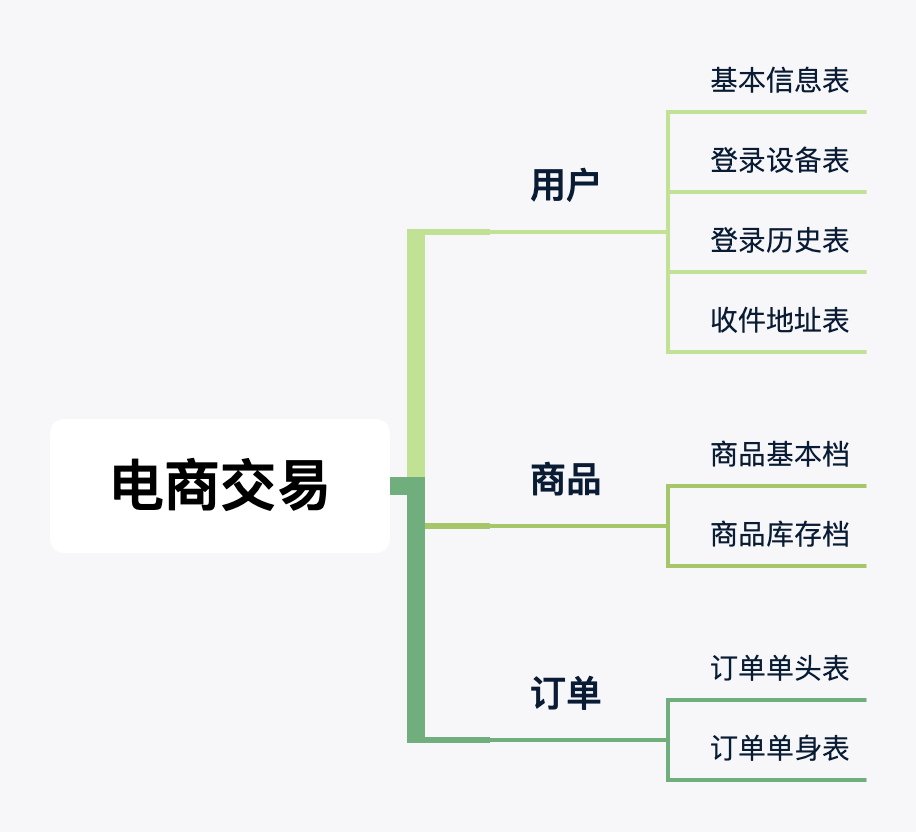
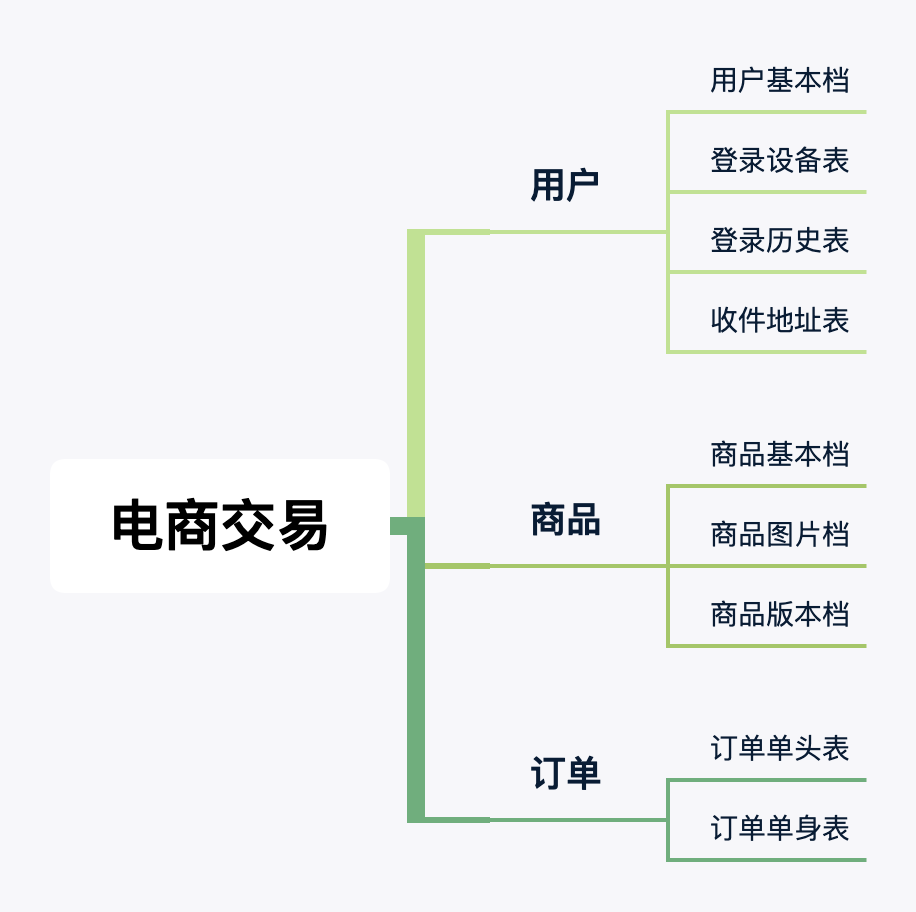
添加表结构

diff --git a/Week_06/README.md b/Week_06/README.md
@@ -1,1 +1,7 @@
-学习笔记
+# 学习笔记 Week6
+## 第12节课作业
+2.（必做）基于电商交易场景（用户、商品、订单），设计一套简单的表结构，提交DDL的SQL文件到Github（后面2周的作业依然要是用到这个表结构）。
+
+![电商交易](电商交易.png)
+
+表结构 ![sample-shopping](mysql/sample-shopping.sql)
